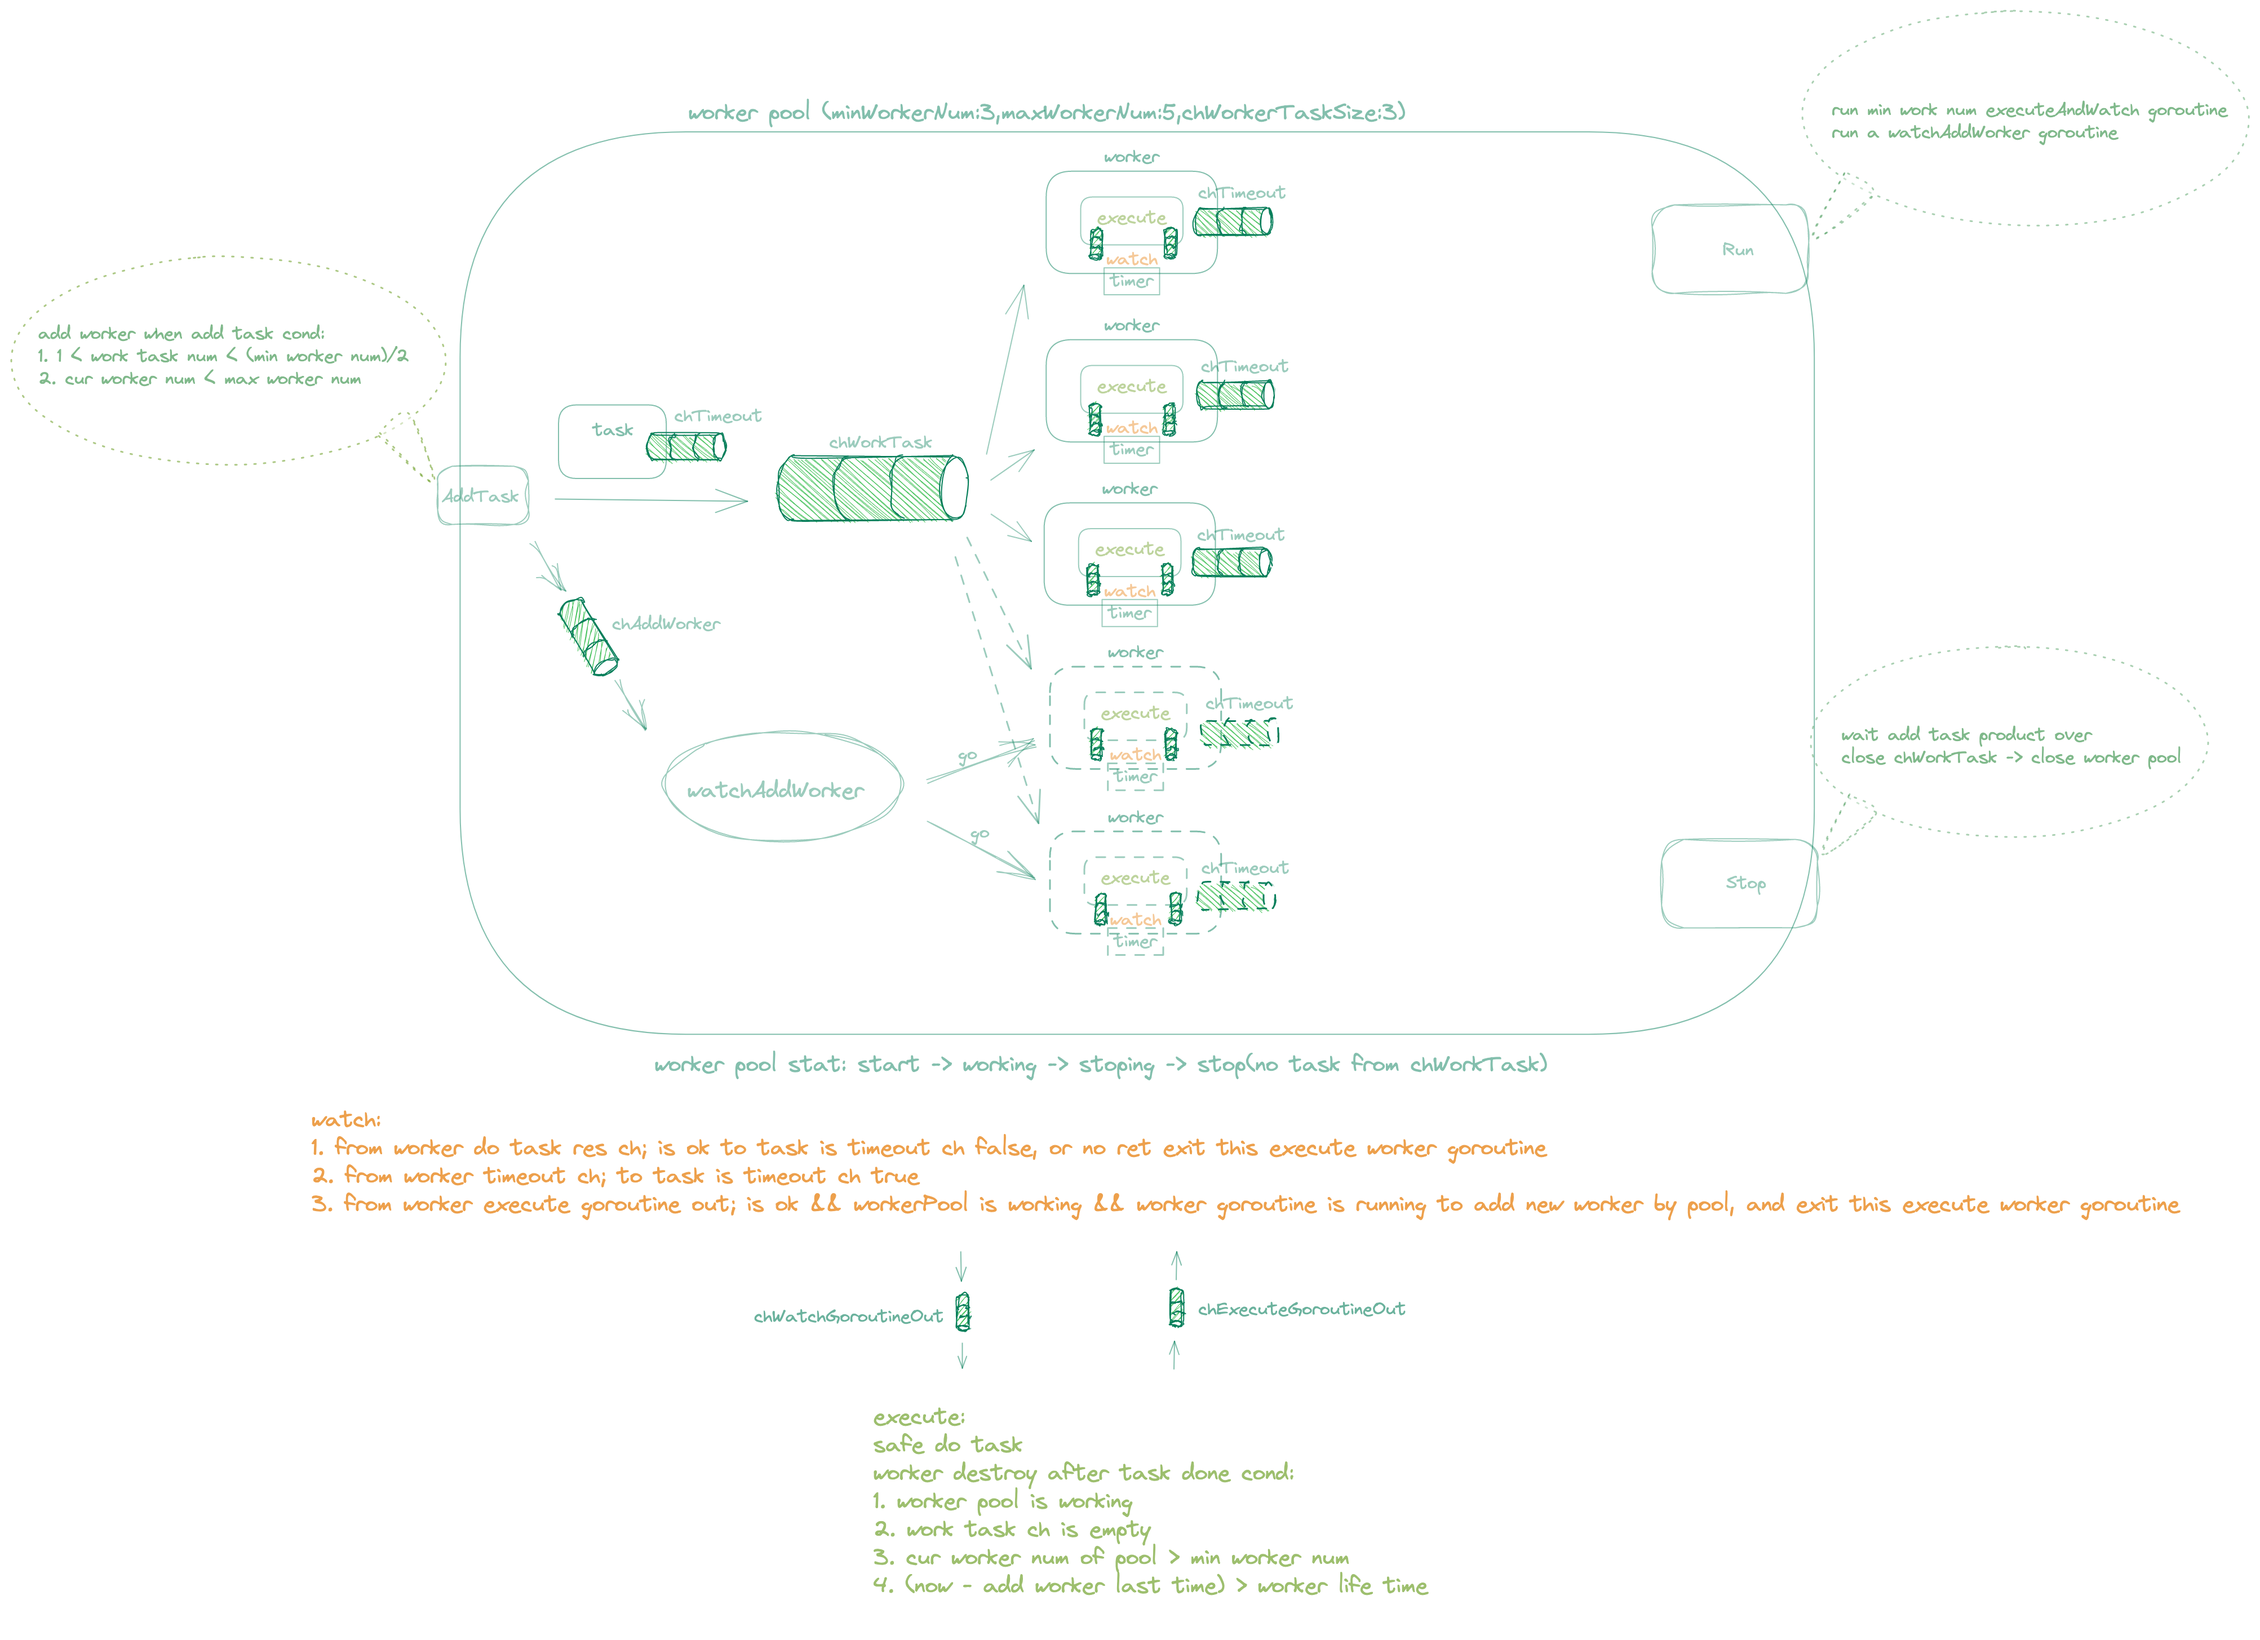
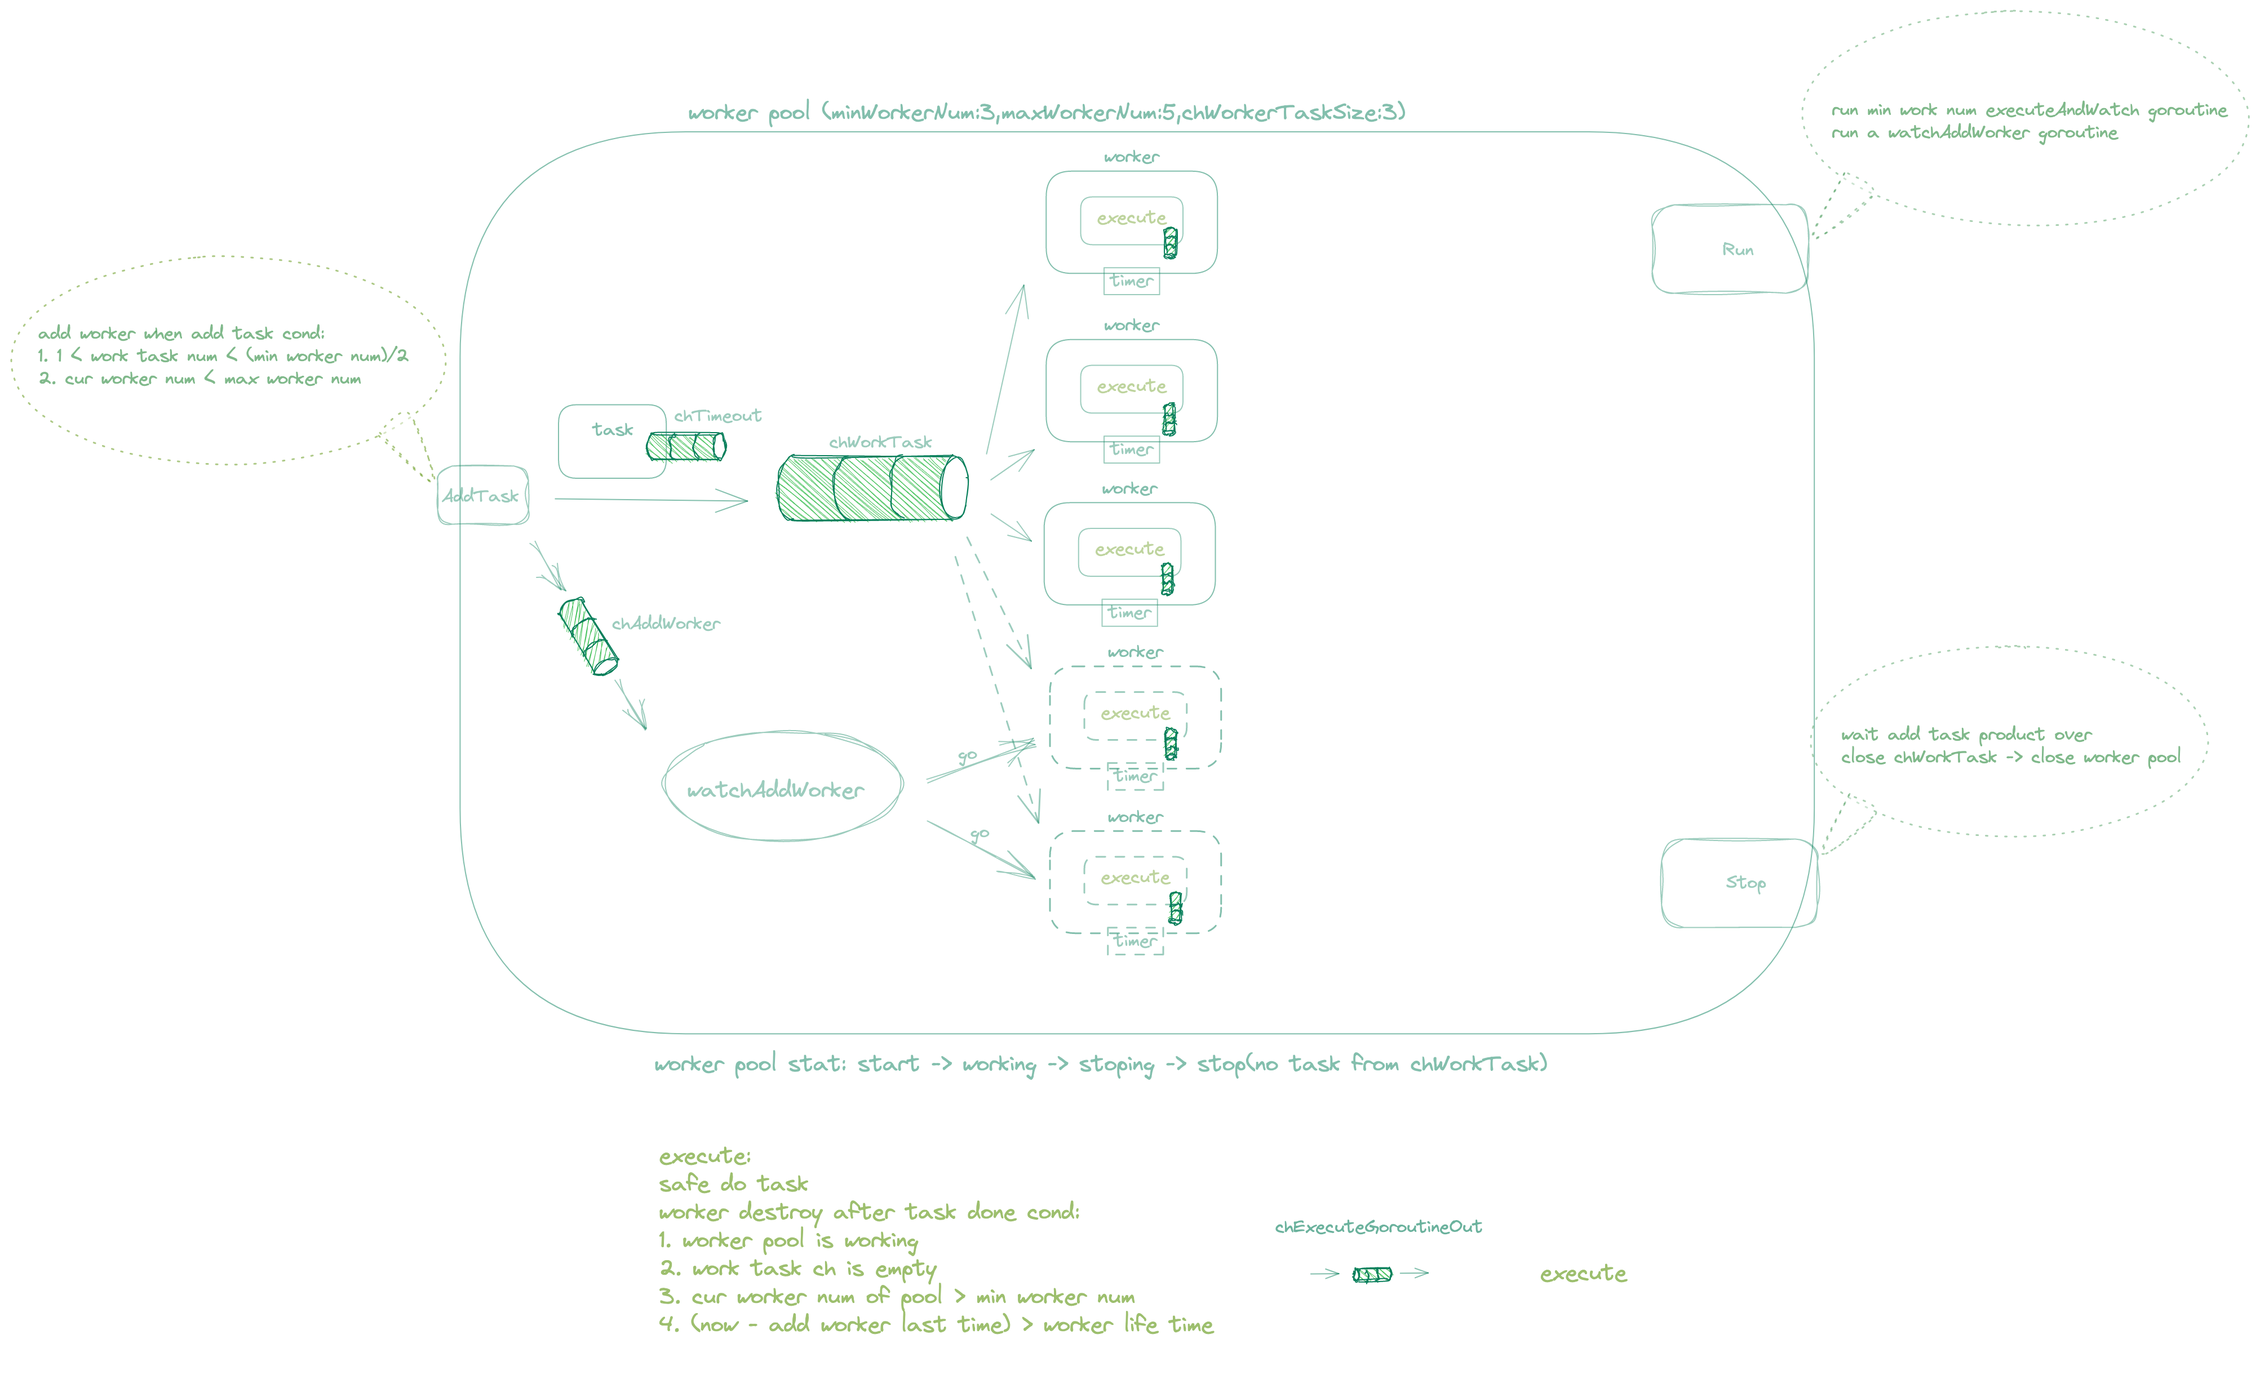
fix issue for worker pool timeout

diff --git a/pool/workerpool/worker.go b/pool/workerpool/worker.go
@@ -11,28 +11,22 @@ import (
 )
 
 type Worker struct {
-	timer                 *time.Timer
 	myWorkerPool          *WorkerPool //所属任务工作池
 	hasGoroutineRunning   int32       //是否有对应的goroutine在运行
-	chTaskDoRes           chan bool   //任务执行结果 -> check
 	chTaskIsTimeOut       chan<- bool //任务是否超时，true 超时,false 正常　由添加任务时创建
-	chExecuteGoroutineOut chan int    //执行任务的goroutine结束 -> watch check timeout goroutine 结束
-	chWatchGoroutineOut   chan int    //watch check timeout goroutine 结束 ->执行任务的goroutine结束
+	chExecuteGoroutineOut chan int    //执行任务的goroutine结束 -> worker goroutine 结束
 }
 
 func newWorker(wp *WorkerPool) *Worker {
 	return &Worker{
-		timer:                 time.NewTimer(DefaultTimeOut),
 		myWorkerPool:          wp,
-		chTaskDoRes:           make(chan bool, 1),
 		chExecuteGoroutineOut: make(chan int, 1),
-		chWatchGoroutineOut:   make(chan int, 1),
 	}
 }
 
-func (worker *Worker) execute() {
+func (worker *Worker) safelyDo() {
 	if nil == worker.myWorkerPool {
-		log.Error(" myWorkerPool is nil ")
+		log.Error("myWorkerPool ptr is nil ")
 		return
 	}
 
@@ -41,30 +35,56 @@ func (worker *Worker) execute() {
 	defer func() {
 		if r := recover(); r != nil {
 			if worker.myWorkerPool.isWorking() {
-				worker.chExecuteGoroutineOut <- 1
+				worker.myWorkerPool.chAddWorker <- 1
 			}
-			atomic.SwapInt32(&worker.hasGoroutineRunning, 0)
-			log.Error("worker execute goroutine crash, panic", r, strings.BytesToString(debug.Stack()))
+
+			atomic.AddInt32(&(worker.myWorkerPool.curWorkerNum), -1)
+			atomic.SwapInt32(&(worker.hasGoroutineRunning), 0)
+			log.Error("check timeout worker goroutine is crash, panic", r, strings.BytesToString(debug.Stack()))
 		}
 	}()
 
+	worker.execute()
+}
+
+func (worker *Worker) execute() {
 	for {
 		select {
 		case task, ok := <-worker.myWorkerPool.chWorkTask:
 			if ok {
-				worker.chTaskIsTimeOut = task.ChIsTimeOut
-				worker.timer.Reset(task.TimeOut)
-				worker.chTaskDoRes <- task.Do(task.InParam, task.OutParam)
-				worker.timer.Stop()
+				taskTimer := time.NewTimer(task.TimeOut)
+				taskDoResCh := make(chan bool, 1)
+				go func() {
+					taskDoResCh <- task.Do(task.InParam, task.OutParam)
+				}()
+
+				select {
+				case <-taskTimer.C:
+					if task.ChIsTimeOut != nil {
+						task.ChIsTimeOut <- true
+					}
+					if task.OnTimeOut != nil {
+						task.OnTimeOut(task.InParam, task.OutParam)
+					}
+				case _, ok := <-taskDoResCh:
+					if ok && task.ChIsTimeOut != nil {
+						task.ChIsTimeOut <- false
+					}
+				}
 
 				worker.destroyAfterTaskDone()
 			} else {
 				worker.myWorkerPool.close()
-				log.Info("no task, myWorkerPool close and exit worker goroutine, the current goroutine number:", atomic.LoadInt32(&worker.myWorkerPool.curWorkerNum))
+				log.Info("close chWorkTask, myWorkerPool close and exit worker goroutine, the current goroutine number:", atomic.LoadInt32(&worker.myWorkerPool.curWorkerNum))
 				runtime.Goexit()
-				return
 			}
-		case <-worker.chWatchGoroutineOut:
+		case _, ok := <-worker.chExecuteGoroutineOut:
+			if worker.myWorkerPool.isWorking() && atomic.LoadInt32(&worker.hasGoroutineRunning) <= 0 && ok {
+				log.Info("send to add worker when ExecuteGoroutineOut")
+				worker.myWorkerPool.chAddWorker <- 1
+			}
+			atomic.AddInt32(&(worker.myWorkerPool.curWorkerNum), -1)
+			log.Info(" exit this execute worker goroutine, the current goroutine number:", atomic.LoadInt32(&worker.myWorkerPool.curWorkerNum))
 			runtime.Goexit()
 		}
 	}
@@ -83,60 +103,5 @@ func (worker *Worker) destroyAfterTaskDone() {
 		worker.chExecuteGoroutineOut <- 1
 		log.Info("exit more worker goroutine, the current goroutine number:", atomic.LoadInt32(&worker.myWorkerPool.curWorkerNum))
 		runtime.Goexit()
-	}
-}
-
-func (worker *Worker) executeAndWatch() {
-	if nil == worker.myWorkerPool {
-		log.Error("myWorkerPool ptr is nil ")
-		return
-	}
-
-	debug.SetPanicOnFault(true)
-	defer worker.myWorkerPool.wg.Done()
-	defer func() {
-		if r := recover(); r != nil {
-			if worker.myWorkerPool.isWorking() {
-				worker.chWatchGoroutineOut <- 1
-				worker.myWorkerPool.chAddWorker <- 1
-			}
-
-			atomic.AddInt32(&(worker.myWorkerPool.curWorkerNum), -1)
-			atomic.SwapInt32(&(worker.hasGoroutineRunning), 0)
-			log.Error("check timeout worker goroutine is crash, panic", r, strings.BytesToString(debug.Stack()))
-		}
-	}()
-
-	worker.myWorkerPool.wg.Add(1)
-	go worker.execute()
-
-	worker.watch()
-}
-
-// watch:
-// 1. from worker do task res ch; is ok to task is timeout ch false, or no ret exit this execute worker goroutine
-// 2. from worker timeout ch; to task is timeout ch true
-// 3. from worker execute goroutine out; is ok && workerPool is working && worker goroutine is running to add new worker by pool, and exit this execute worker goroutine
-func (worker *Worker) watch() {
-	for {
-		select {
-		case _, ok := <-worker.chTaskDoRes:
-			if ok {
-				worker.chTaskIsTimeOut <- false
-			} else {
-				atomic.AddInt32(&(worker.myWorkerPool.curWorkerNum), -1)
-				log.Info("no ret exit this execute watch worker goroutine, the current goroutine number:", atomic.LoadInt32(&worker.myWorkerPool.curWorkerNum))
-				runtime.Goexit()
-			}
-		case <-worker.timer.C:
-			worker.chTaskIsTimeOut <- true
-		case _, ok := <-worker.chExecuteGoroutineOut:
-			if worker.myWorkerPool.isWorking() && atomic.LoadInt32(&worker.hasGoroutineRunning) <= 0 && ok {
-				worker.myWorkerPool.chAddWorker <- 1
-			}
-			atomic.AddInt32(&(worker.myWorkerPool.curWorkerNum), -1)
-			log.Info(" exit this execute watch  worker goroutine, the current goroutine number:", atomic.LoadInt32(&worker.myWorkerPool.curWorkerNum))
-			runtime.Goexit()
-		}
 	}
 }

diff --git a/pool/workerpool/example_workerpool_test.go b/pool/workerpool/example_workerpool_test.go
@@ -2,6 +2,7 @@ package workerpool
 
 import (
 	"fmt"
+	"sync"
 	"testing"
 	"time"
 )
@@ -31,10 +32,11 @@ func MyDo(inParam interface{}, outParam interface{}) bool {
 func MyDoSlow(inParam interface{}, outParam interface{}) bool {
 	println("InParam:", inParam.(*InParam).key, inParam.(*InParam).val)
 
-	time.Sleep(5 * time.Second)
+	time.Sleep(4 * time.Second)
 
 	outParam.(*OutParam).err = nil
 	outParam.(*OutParam).res = 1111
+	//println("MyDoSlow run ok", outParam)
 
 	return true
 }
@@ -117,16 +119,7 @@ func TestWorkerPool_RunManyOk(t *testing.T) {
 		wp.AddTask(task)
 	}
 
-	for i, ch := range timeoutChs {
-		go func(index int, ch chan bool) {
-			for {
-				select {
-				case isTimeout, ok := <-ch:
-					fmt.Println("timeOutChs--->", index, isTimeout, ok)
-				}
-			}
-		}(i, ch)
-	}
+	batchAsyncDoTimeout(timeoutChs)
 }
 
 func TestWorkerPool_RunManyTimeout(t *testing.T) {
@@ -151,23 +144,91 @@ func TestWorkerPool_RunManyTimeout(t *testing.T) {
 			TimeOut:     3 * time.Second,
 		}
 		wp.AddTask(task)
-
-		/*
-		isTimeout, ok := <-timeoutChs[i]
-		fmt.Println("timeOutChs--->", i, isTimeout, ok)
-		 */
 	}
 
+	batchAsyncDoTimeout(timeoutChs)
+}
+
+func TestWorkerPool_RunManyOkTimeout(t *testing.T) {
+	wp := NewWorkerPool(3, 5, 3)
+
+	wp.Run()
+	defer wp.Stop()
+
+	timeoutChs := make([]chan bool, 10)
+	for i := 0; i < 10; i++ {
+		inParam := &InParam{
+			key: "wo qu",
+			val: i + 1000,
+		}
+		outParam := &OutParam{}
+		timeoutChs[i] = make(chan bool, 1)
+		timeOut := 3 * time.Second
+		if i%2 == 0 {
+			timeOut = 5 * time.Second
+		}
+		task := &Task{
+			Do:          MyDoSlow,
+			InParam:     inParam,
+			OutParam:    outParam,
+			ChIsTimeOut: timeoutChs[i],
+			TimeOut:     timeOut,
+		}
+		wp.AddTask(task)
+	}
+
+	batchAsyncDoTimeout(timeoutChs)
+}
+
+func batchAsyncDoTimeout(timeoutChs []chan bool) {
+	wg := &sync.WaitGroup{}
 	for i, ch := range timeoutChs {
-		go func(index int, ch chan bool) {
+		wg.Add(1)
+		go func(wg *sync.WaitGroup, index int, ch chan bool) {
+			defer wg.Done()
 			for {
 				select {
 				case isTimeout, ok := <-ch:
-					if isTimeout == true && ok {
-						fmt.Println("timeOutChs--->", index, isTimeout, ok)
-					}
+					fmt.Println("timeOutChs--->", index, isTimeout, ok)
+					return
 				}
 			}
-		}(i, ch)
+		}(wg, i, ch)
 	}
+	wg.Wait()
+}
+
+func TestWorkerPool_RunManyOkTimeoutWithTimeOutHandle(t *testing.T) {
+	wp := NewWorkerPool(3, 5, 3)
+
+	wp.Run()
+	defer wp.Stop()
+
+	//timeoutChs := make([]chan bool, 10)
+	for i := 0; i < 10; i++ {
+		inParam := &InParam{
+			key: "wo qu",
+			val: i + 1000,
+		}
+		outParam := &OutParam{}
+		//timeoutChs[i] = make(chan bool, 1)
+		timeOut := 3 * time.Second
+		if i%2 == 0 {
+			timeOut = 5 * time.Second
+		}
+		task := &Task{
+			Do:          MyDoSlow,
+			InParam:     inParam,
+			OutParam:    outParam,
+			//ChIsTimeOut: timeoutChs[i],
+			TimeOut:     timeOut,
+			OnTimeOut: func(inParam interface{}, outParam interface{}) {
+				key := inParam.(*InParam).key
+				val := inParam.(*InParam).val
+				println("inParam", key, val, "timeout")
+			},
+		}
+		wp.AddTask(task)
+	}
+
 }

diff --git a/pool/workerpool/workerpool.go b/pool/workerpool/workerpool.go
@@ -78,7 +78,7 @@ func (wp *WorkerPool) Run() {
 		atomic.AddInt32(&(wp.curWorkerNum), 1)
 		atomic.SwapInt32(&(wp.workers[i].hasGoroutineRunning), 1)
 		wp.wg.Add(1)
-		go wp.workers[i].executeAndWatch()
+		go wp.workers[i].safelyDo()
 	}
 
 	wp.indexWorkers = int(wp.minWorkerNum)
@@ -119,7 +119,7 @@ func (wp *WorkerPool) watchAddWorker() {
 func (wp *WorkerPool) addWorker() {
 	atomic.SwapInt32(&wp.workers[wp.indexWorkers].hasGoroutineRunning, 1)
 	wp.wg.Add(1)
-	go wp.workers[wp.indexWorkers].executeAndWatch()
+	go wp.workers[wp.indexWorkers].safelyDo()
 	atomic.AddInt32(&(wp.curWorkerNum), 1)
 	wp.indexWorkers++
 	if int32(wp.indexWorkers) >= wp.maxWorkerNum {
@@ -135,8 +135,16 @@ func (wp *WorkerPool) AddTask(task *Task) {
 		return
 	}
 
-	if nil == task.ChIsTimeOut {
-		log.Warn("add task chIsTimeOut is nil")
+	if nil == task.Do {
+		log.Warn("add task Do func is nil")
+		return
+	}
+	if nil == task.InParam {
+		log.Warn("add task Do func inParam is nil")
+		return
+	}
+	if nil == task.OutParam {
+		log.Warn("add task Do func outParam is nil")
 		return
 	}
 
@@ -186,7 +194,7 @@ func (wp *WorkerPool) close() {
 		atomic.SwapInt32(&wp.stat, WorkerPool_Stat_Stop)
 		for index, _ := range wp.workers {
 			atomic.SwapInt32(&wp.workers[index].hasGoroutineRunning, 1) // 不让自启
-			close(wp.workers[index].chWatchGoroutineOut)
+			//close(wp.workers[index].chWatchGoroutineOut)
 			close(wp.workers[index].chExecuteGoroutineOut)
 			//close(wp.workers[index].chTaskDoRes)
 		}
@@ -209,6 +217,7 @@ func (wp *WorkerPool) Stop() {
 		time.Sleep(10 * time.Millisecond)
 	}
 
+	log.Info("stop worker pool, stop to close chWorkTask -> close worker pool")
 	close(wp.chWorkTask) // stop to close chWorkTask -> close worker pool
 
 	wp.wg.Wait()

diff --git a/pool/workerpool/task.go b/pool/workerpool/task.go
@@ -10,5 +10,5 @@ type Task struct {
 	OutParam    interface{}                                          //输出
 	ChIsTimeOut chan<- bool                                          //是否超时，true 超时,false 正常
 	TimeOut     time.Duration                                        //任务超时时间
-	OnTimeOut  func(inParam interface{}, outParam interface{})
+	OnTimeOut   func(inParam interface{}, outParam interface{})
 }

diff --git a/pool/workerpool/readme.md b/pool/workerpool/readme.md
@@ -19,6 +19,11 @@
 1. [ants](github.com/panjf2000/ants)
 2. [Concurrency in Golang And WorkerPool](https://hackernoon.com/concurrency-in-golang-and-workerpool-part-1-e9n31ao) [Go语言的并发与WorkerPool](https://mp.weixin.qq.com/s?__biz=MzI2MDA1MTcxMg==&mid=2648468373&idx=1&sn=dc9c6e56cbd20c79a2593481100c69da) Github:[goworkerpool](https://github.com/Joker666/goworkerpool.git)
 3. [The Case For A Go Worker Pool](https://brandur.org/go-worker-pool) GitHub: [worker-pool](https://github.com/vardius/worker-pool)
+4. [一文搞懂如何实现 Go 超时控制](https://segmentfault.com/a/1190000039731121)
 
 
+
+##### 修复问题：
+
+1. 去掉worker对应的watch,  任务task定义超时时间，woker获取任务执行的时候，进行超时任务处理，去掉冗余逻辑 2021/9/26
 
